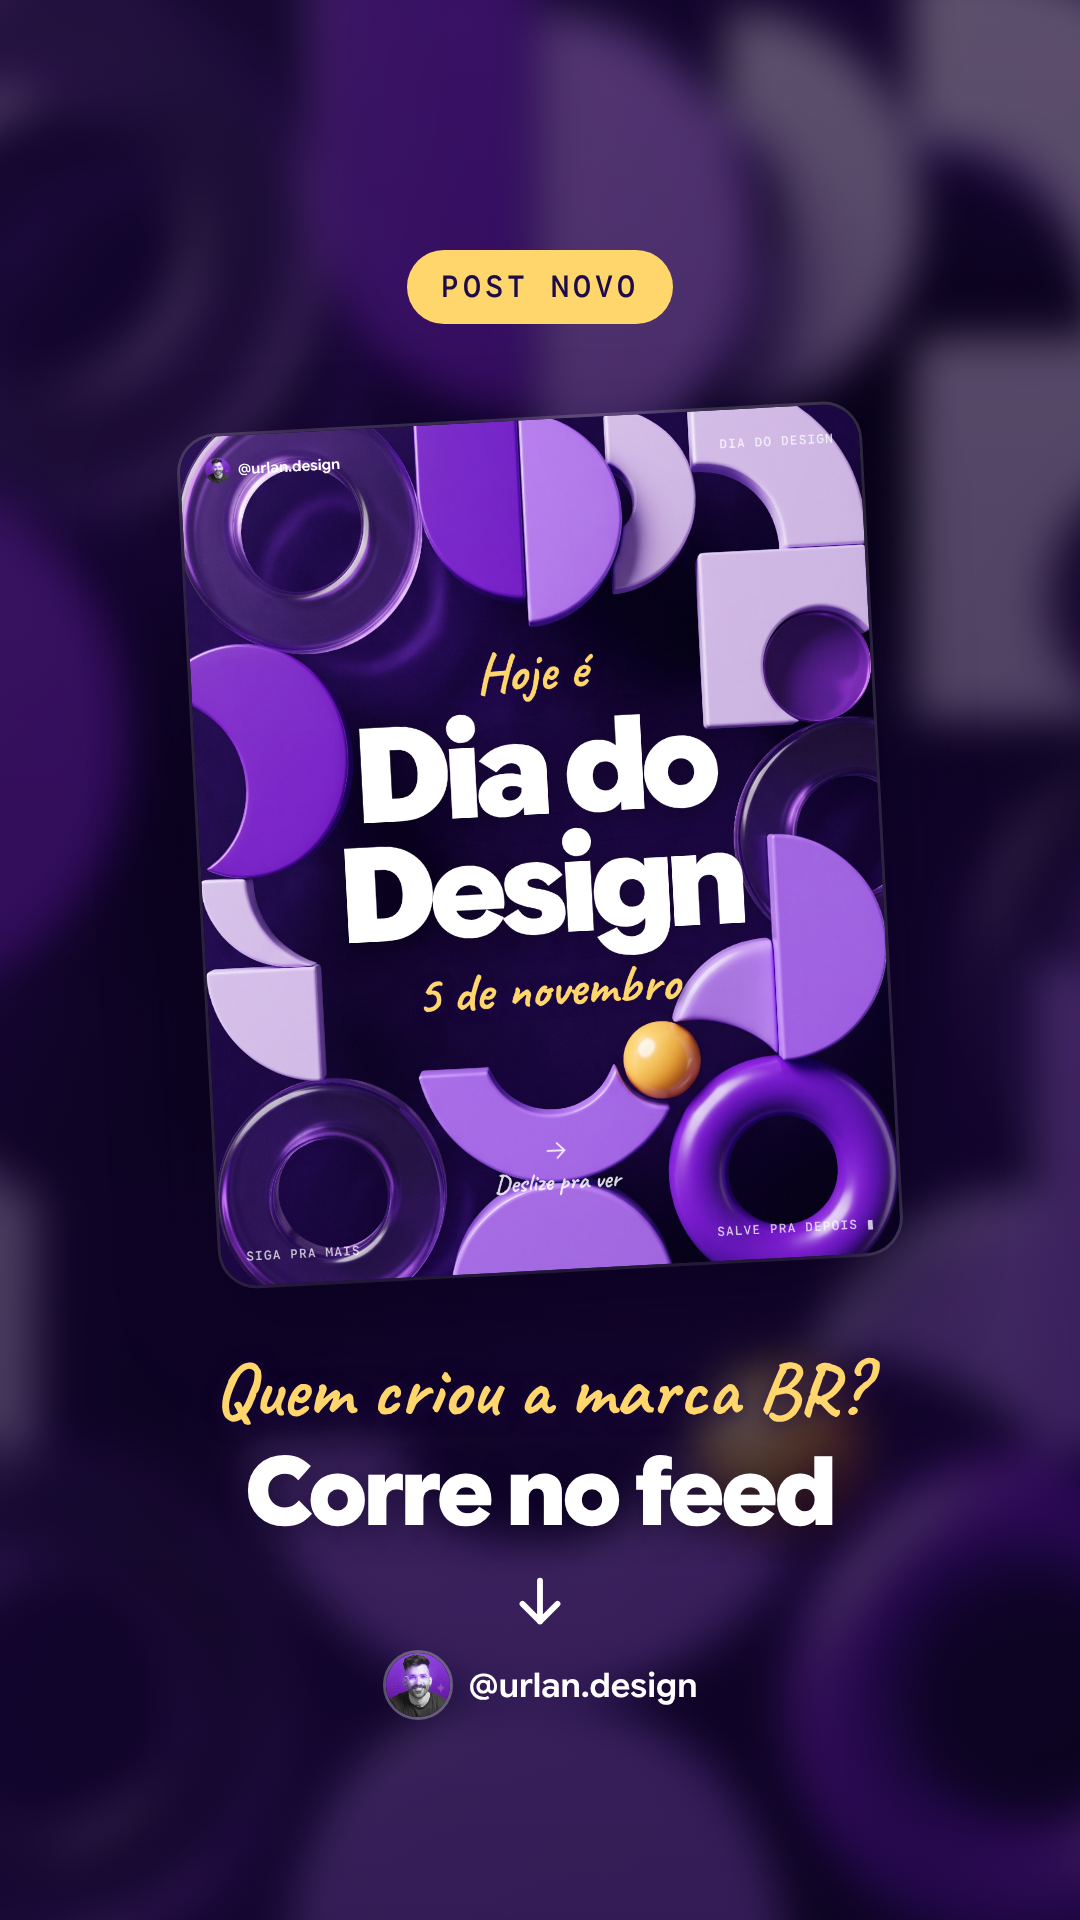
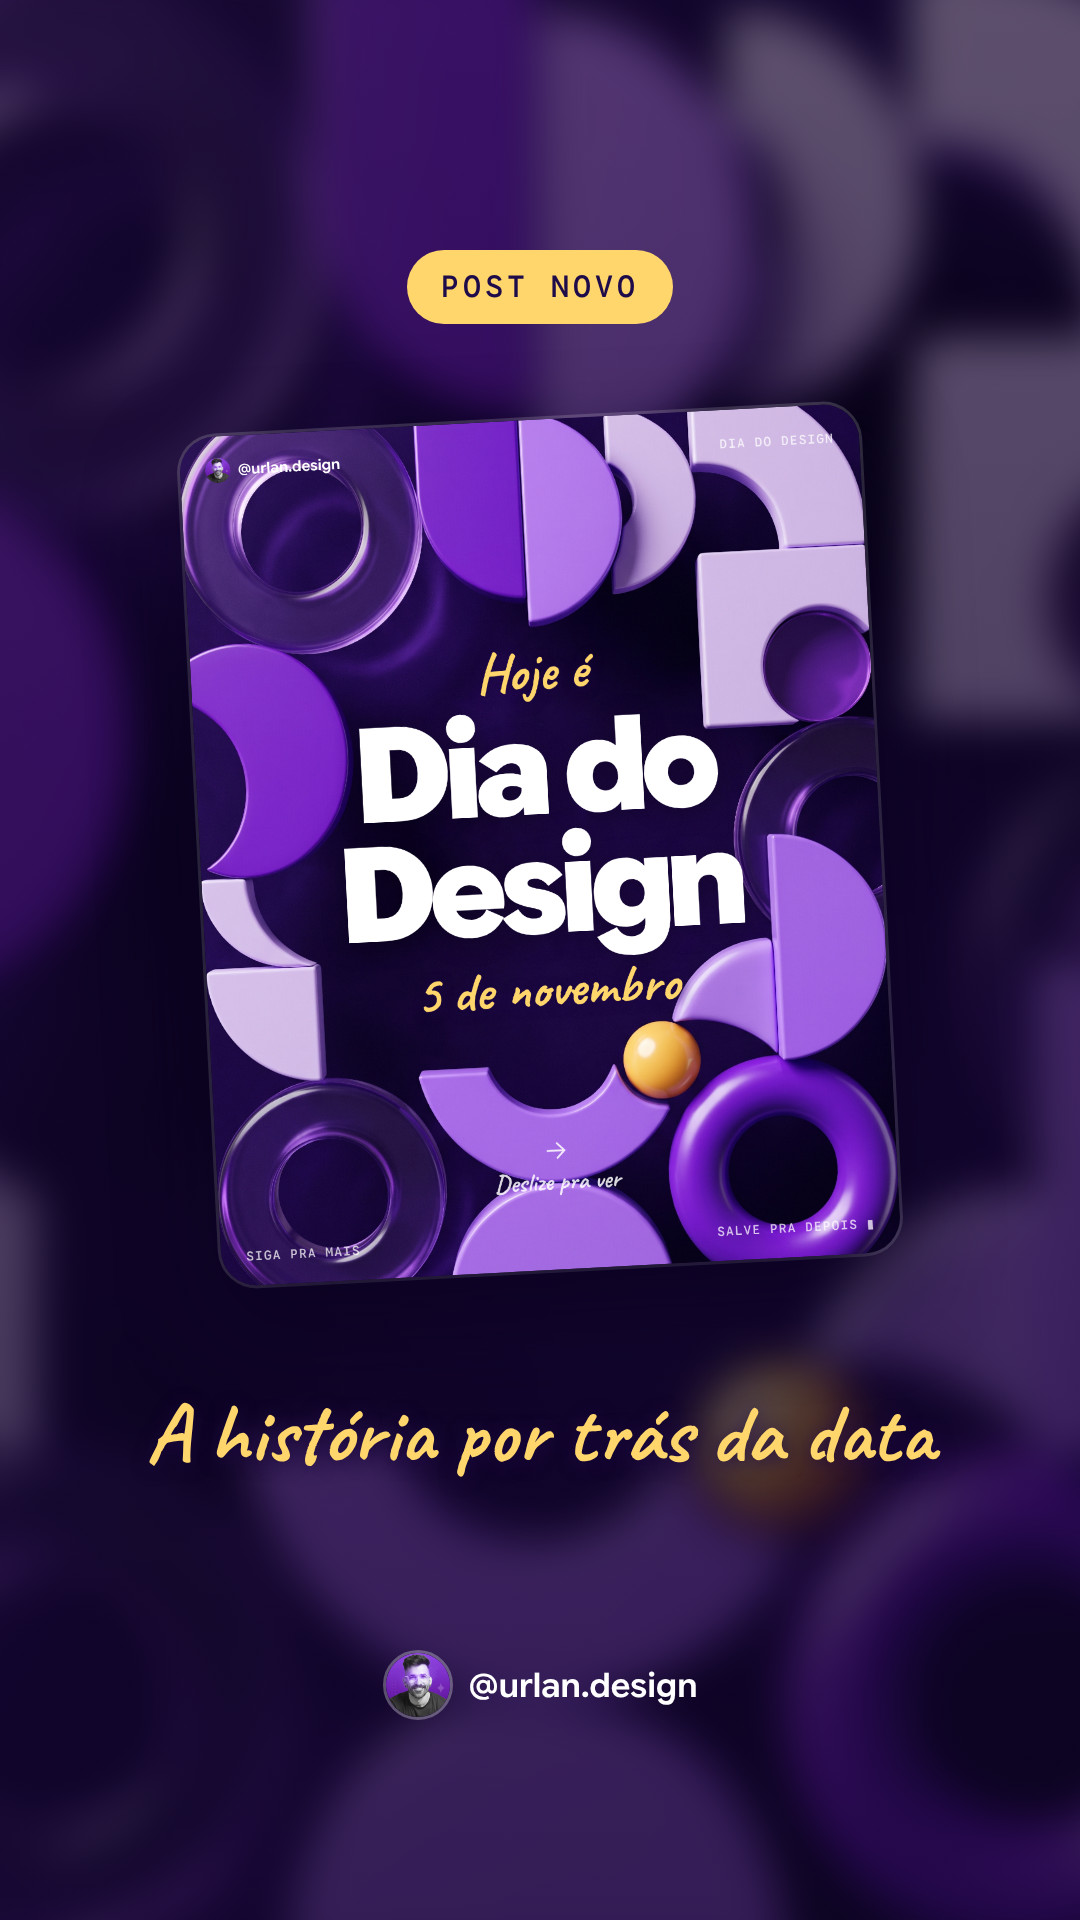
Story Dia do Design: chamada neutra, sem CTA
Claude-Session: https://claude.ai/code/session_01DwYVZ4p9qWAPLeHrrQbmUv

Changed region(s): [[0.1222, 0.6875, 0.8556, 0.8438]]

diff --git a/2026-11-dia-do-design/story/story.html b/2026-11-dia-do-design/story/story.html
@@ -11,9 +11,9 @@ html,body{margin:0}
 .pill{display:inline-block;font-family:GSC;font-size:30px;letter-spacing:4px;padding:18px 34px;border-radius:999px;background:#FFD66B;color:#1E0B4A}
 .card{position:absolute;left:50%;top:420px;width:680px;height:850px;transform:translateX(-50%) rotate(-3deg);border-radius:36px;overflow:hidden;box-shadow:0 40px 90px rgba(10,0,30,.6),0 0 0 3px rgba(255,255,255,.18)}
 .card img{width:100%;height:100%;display:block}
-.cta{position:absolute;left:0;right:0;top:1340px;text-align:center}
-.cta .s{font-family:Caveat;font-weight:700;font-size:78px;color:#FFD66B;text-shadow:0 3px 18px rgba(30,8,70,.85)}
-.cta .t{font-weight:800;font-size:96px;line-height:1;letter-spacing:-2px;margin-top:6px;text-shadow:0 6px 30px rgba(10,0,30,.5)}
+.cta{position:absolute;left:0;right:0;top:1380px;text-align:center}
+.cta .s{font-family:Caveat;font-weight:700;font-size:84px;color:#FFD66B;text-shadow:0 3px 18px rgba(30,8,70,.85)}
+.cta .t{font-weight:800;font-size:110px;line-height:.95;letter-spacing:-2px;margin-top:6px;text-shadow:0 6px 30px rgba(10,0,30,.5)}
 .cta svg{display:block;margin:26px auto 0}
 .foot{position:absolute;bottom:200px;left:0;right:0;display:flex;justify-content:center;align-items:center;gap:16px;font-weight:600;font-size:34px}
 .foot img{width:64px;height:64px;border-radius:50%;object-fit:cover;border:3px solid rgba(255,255,255,.3)}
@@ -22,7 +22,6 @@ html,body{margin:0}
 <div class="dim"></div>
 <div class="top"><span class="pill">POST NOVO</span></div>
 <div class="card"><img src="../slide-01.png"></div>
-<div class="cta"><div class="s">Quem criou a marca BR?</div><div class="t">Corre no feed</div>
-<svg width="70" height="70" viewBox="0 0 24 24" fill="none" stroke="#fff" stroke-width="2" stroke-linecap="round" stroke-linejoin="round"><path d="M12 5v14M6 13l6 6 6-6"/></svg></div>
+<div class="cta"><div class="s">A história por trás da data</div></div>
 <div class="foot"><img src="../../template/assets/avatar-hd.webp">@urlan.design</div>
 </div></body></html>
